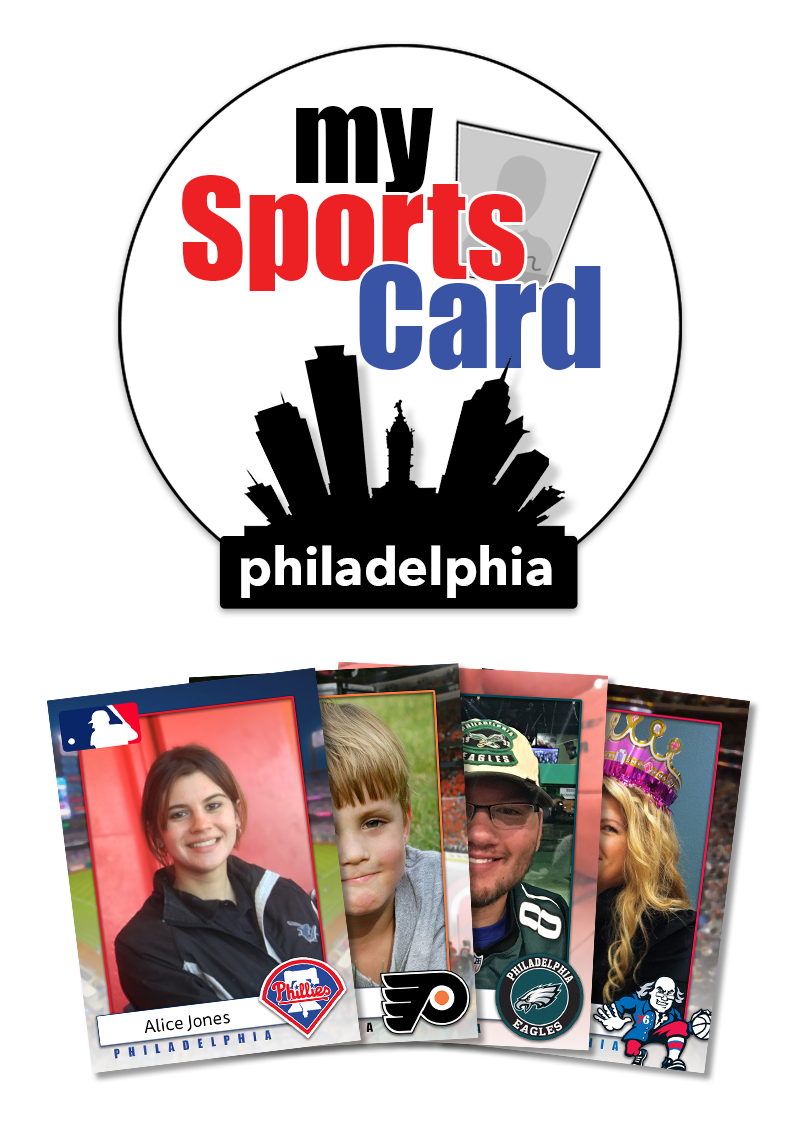
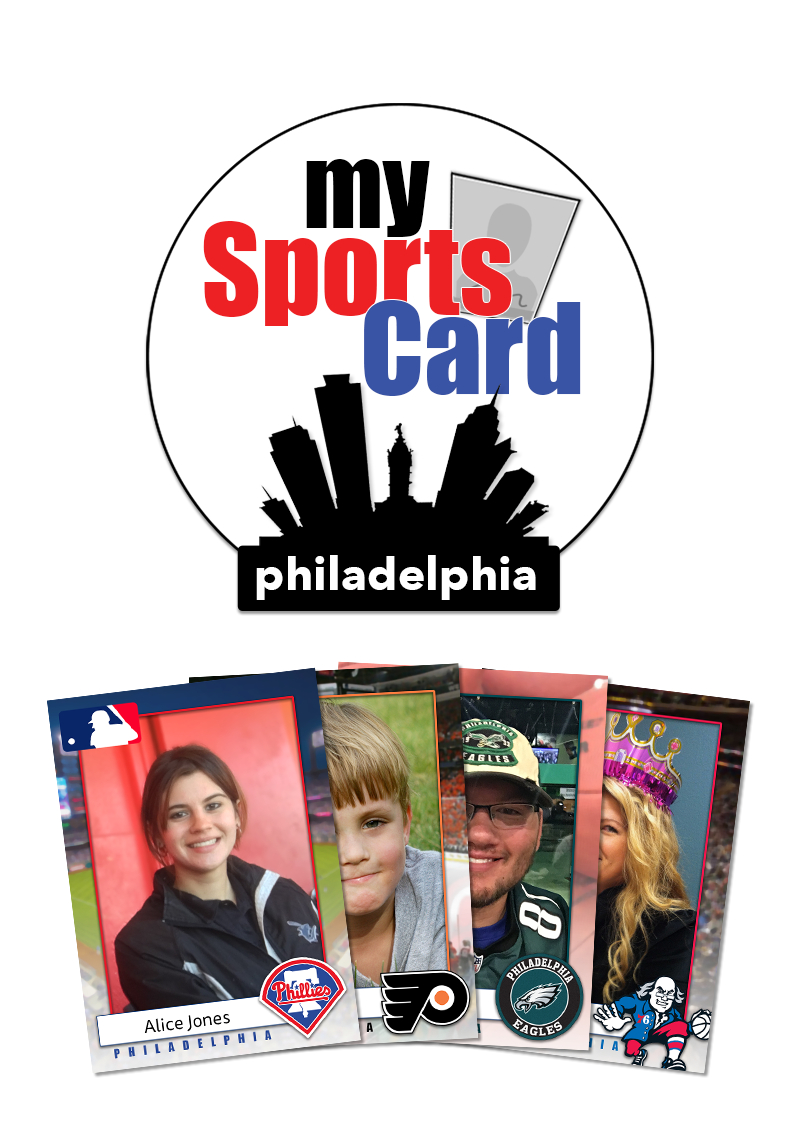
updated main graphics and button colors

diff --git a/app/assets/stylesheets/style.scss b/app/assets/stylesheets/style.scss
@@ -127,7 +127,7 @@ section {
 .subhead h5 {
   font-size: 18px;
   margin-top: 1em;
-  margin-bottom: -1em;
+  margin-bottom: -.5em;
   color: #3935a5;
   text-align: center;
 }
@@ -169,6 +169,7 @@ section {
   background: #3935a5;
   border-radius: 50px;
   margin: auto;
+  margin-bottom: 2em;
 }
 
 .teams {
@@ -280,11 +281,11 @@ input[type="number"] {
 
 .submit {
   text-align: center;
-  background-color: #ed2024;
+  background-color: red;
   color: white;
   font-size: 14px;
   border-radius: 4px;
-  border: 1px solid #ed2024;
+  border: 1px solid red;
   padding: 6px 12px;
   font-weight: bold;
 }
@@ -292,10 +293,10 @@ input[type="number"] {
 .submit:hover {
   text-align: center;
   background-color: white;
-  color: #ed2024;
+  color: red;
   font-size: 14px;
   border-radius: 4px;
-  border: 1px solid #ed2024;
+  border: 1px solid red;
   padding: 6px 12px;
   font-weight: bold;
 }
@@ -306,7 +307,7 @@ input[type="number"] {
   color: white;
   font-size: 14px;
   border-radius: 4px;
-  border: 1px solid #3935a5;
+  border: 1px solid green;
   padding: 6px 12px;
   font-weight: bold;
 }
@@ -481,7 +482,7 @@ div .send p {
 }
 
 .thanks h1 {
-  margin-top: 0em;
+  margin-top: .5em;
   font-size: 54px;
   color: #3935a5;
 }
@@ -504,6 +505,7 @@ div .send p {
 .pngify {
   width: 250px;
   height: 355px;
+  margin-top: 3em;
 }
 
 .about a {
@@ -712,7 +714,7 @@ label {
   }
 }
 
-@media only screen and (max-width: 799px) {
+@media only screen and (max-width: 774px) {
   .wrapper {
   }
 
@@ -746,7 +748,7 @@ label {
   }
 }
 
-@media only screen and (min-width: 800px) {
+@media only screen and (min-width: 775px) {
   .wrapper {
   }
 
@@ -759,7 +761,7 @@ label {
     background-repeat: no-repeat;
     margin-bottom: -5em;
     margin-top: -.5em;
-    transition: 300ms ease;
+    transition: 600ms ease;
   }
 
   .intro-text h3 {
@@ -771,7 +773,7 @@ label {
   }
 }
 
-@media only screen and (min-width: 1100px) {
+@media only screen and (min-width: 1000px) {
   .wrapper {
   }
 
@@ -780,11 +782,11 @@ label {
     background-image: image-url("phillycards/mysportscard1200.png");
     background-size: contain;
     height: 500px;
-    width: 1050px;
+    width: 1000px;
     background-repeat: no-repeat;
     margin-bottom: -5em;
     margin-top: -.5em;
-    transition: 300ms ease;
+    transition: 600ms ease;
   }
 
   .intro-text h3 {
